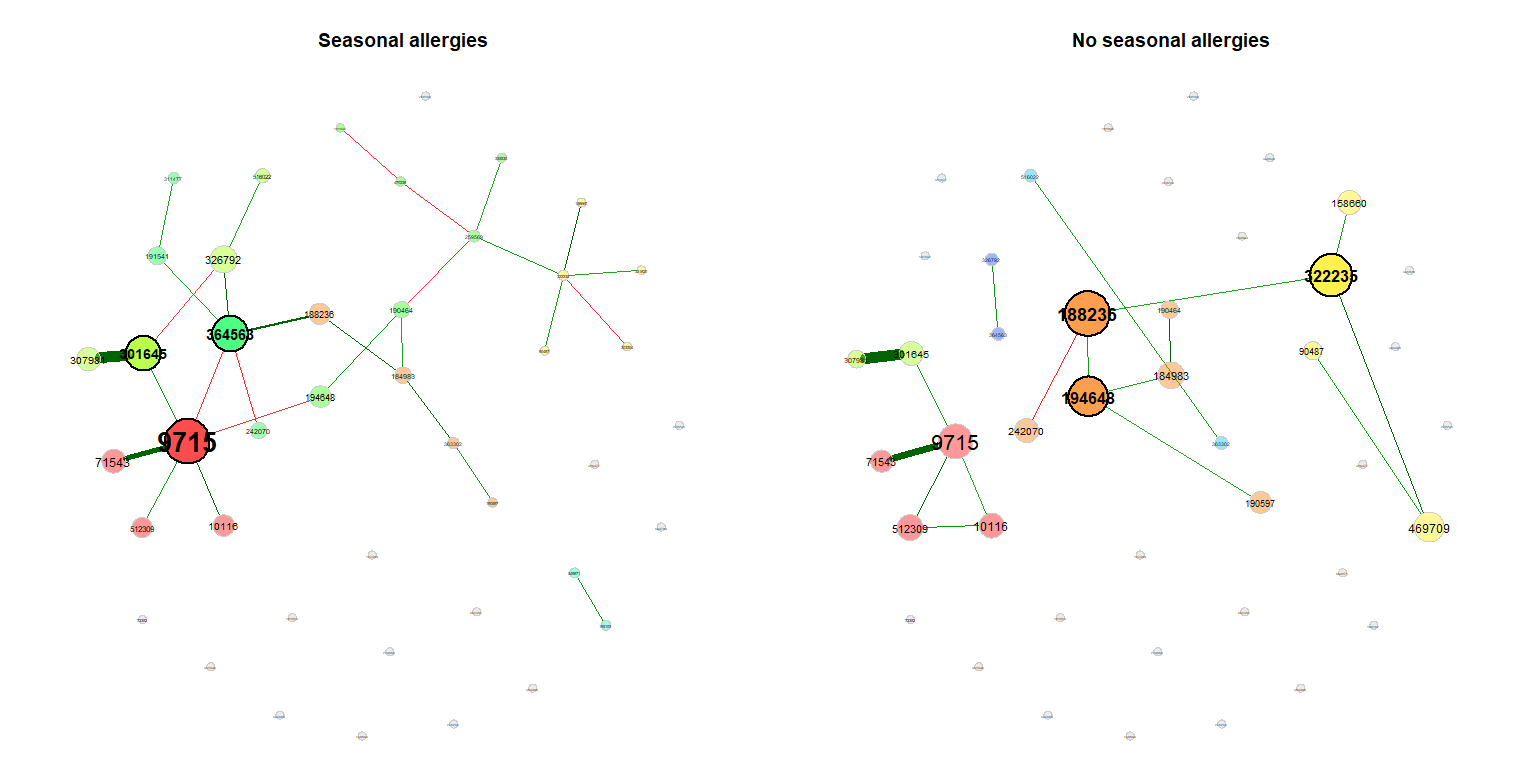
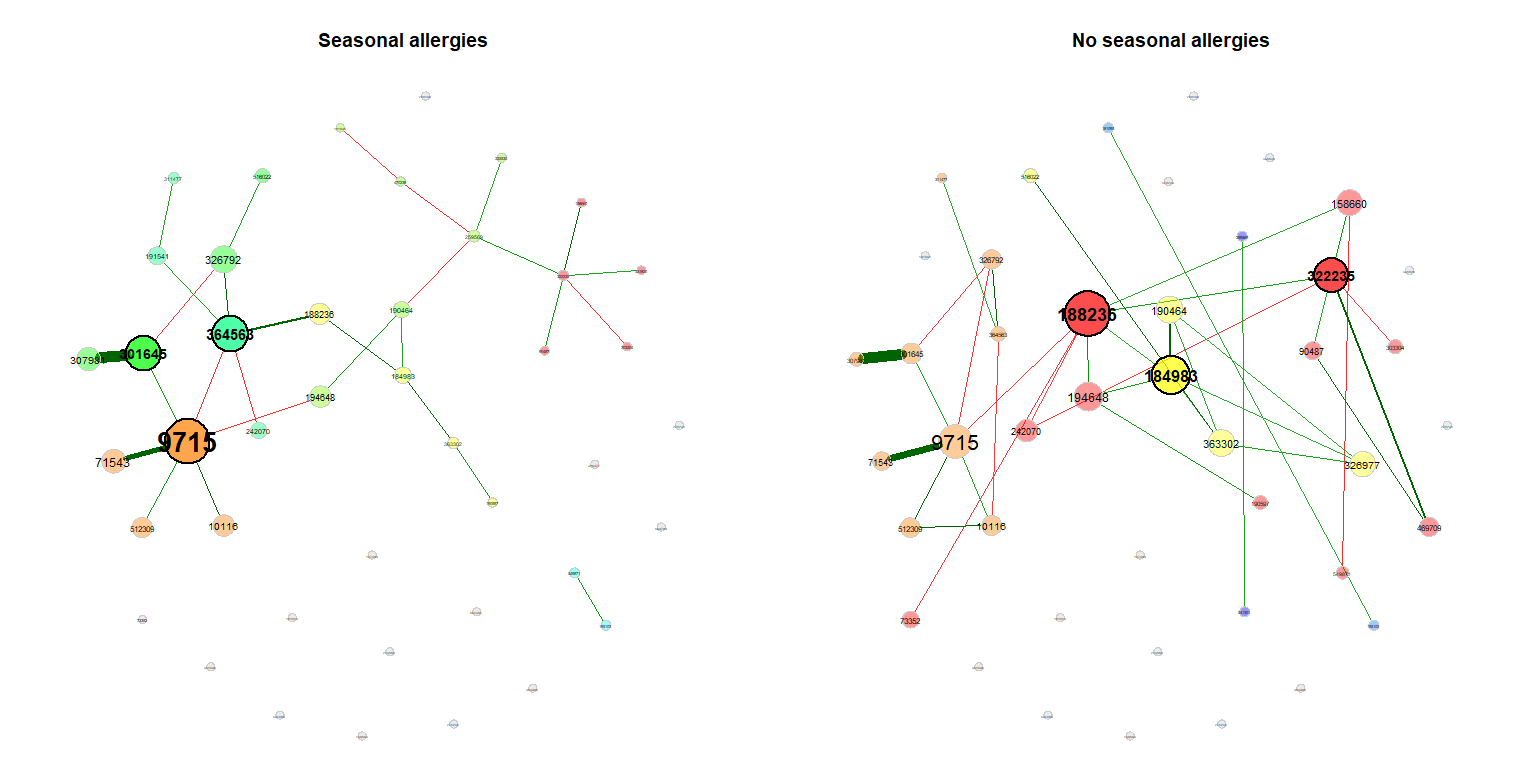
readme updated

diff --git a/readme.md b/readme.md
@@ -1,6 +1,8 @@
 NetCoMi
 =======
 
+[![DOI](https://zenodo.org/badge/259906607.svg)](https://zenodo.org/badge/latestdoi/259906607)
+
 `NetCoMi` (Network Comparison for Microbiome data) provides functions
 for constructing, analyzing, and comparing networks suitable for the
 application on microbial compositional data. The package includes
@@ -355,10 +357,10 @@ summary(comp_season, showCentr = c("degree", "eigen"), numbTaxa = 5)
     ## Jaccard index (similarity betw. sets of most central nodes):
     ## `````````````
     ##                     Jacc   P(<=Jacc)     P(>=Jacc)   
-    ## degree             0.308   0.5520387     0.6775760   
-    ## betweenness centr. 0.455   0.8779150     0.2889973   
-    ## closeness centr.   0.375   0.7374313     0.4530638   
-    ## eigenvec. centr.   0.375   0.7374313     0.4530638   
+    ## degree             0.300   0.5592643     0.7008586   
+    ## betweenness centr. 0.538   0.9653452     0.1035392   
+    ## closeness centr.   0.467   0.9117684     0.2030389   
+    ## eigenvec. centr.   0.222   0.2310724     0.8983349   
     ## hub taxa           0.000   0.0877915 .   1.0000000   
     ## -----
     ## Jaccard index ranges from 0 (compl. different) to 1 (sets equal)
@@ -367,18 +369,18 @@ summary(comp_season, showCentr = c("degree", "eigen"), numbTaxa = 5)
     ## Global network properties:
     ## ``````````````````````````
     ##                     group '1'   group '2'    difference
-    ## average path length     2.551       1.255         1.296
-    ## clustering coeff.       0.000       0.150         0.150
-    ## modularity              0.597       0.651         0.054
+    ## average path length     2.551       1.982         0.569
+    ## clustering coeff.       0.000       0.316         0.316
+    ## modularity              0.597       0.601         0.005
     ## vertex connectivity     0.000       0.000         0.000
     ## edge connectivity       0.000       0.000         0.000
-    ## edge density            0.032       0.019         0.013
+    ## edge density            0.032       0.040         0.008
     ## 
     ## 
     ## Adjusted Rand index (similarity betw. clusterings):
     ## ```````````````````
     ##    ARI       p-value
-    ##  0.339             0
+    ##  0.253             0
     ## -----
     ## ARI in [-1,1] with ARI=1: perfect agreement betw. clusterings,
     ##                    ARI=0: expected for two random clusterings
@@ -389,19 +391,19 @@ summary(comp_season, showCentr = c("degree", "eigen"), numbTaxa = 5)
     ## ````````````````````
     ## Degree:
     ##        group '1' group '2' difference
-    ## 364563     0.119     0.024      0.095
-    ## 259569     0.095     0.000      0.095
+    ## 188236     0.048     0.167      0.119
+    ## 326977     0.000     0.071      0.071
+    ## 259569     0.095     0.024      0.071
     ## 469709     0.000     0.048      0.048
-    ## 322235     0.119     0.071      0.048
-    ## 470239     0.048     0.000      0.048
+    ## 158660     0.024     0.071      0.048
     ## 
     ## Eigenvector centrality:
     ##        group '1' group '2' difference
-    ## 322235     0.058     0.937      0.879
+    ## 322235     0.058     0.704      0.646
     ## 188236     0.359     1.000      0.641
-    ## 364563     0.756     0.127      0.630
-    ## 469709     0.000     0.594      0.594
-    ## 194648     0.364     0.854      0.490
+    ## 184983     0.227     0.819      0.592
+    ## 364563     0.756     0.178      0.578
+    ## 326977     0.000     0.470      0.470
     ## 
     ## --------------------------------------------------------
     ## Significance codes: ***: 0.001, **: 0.01, *: 0.05, .: 0.1
